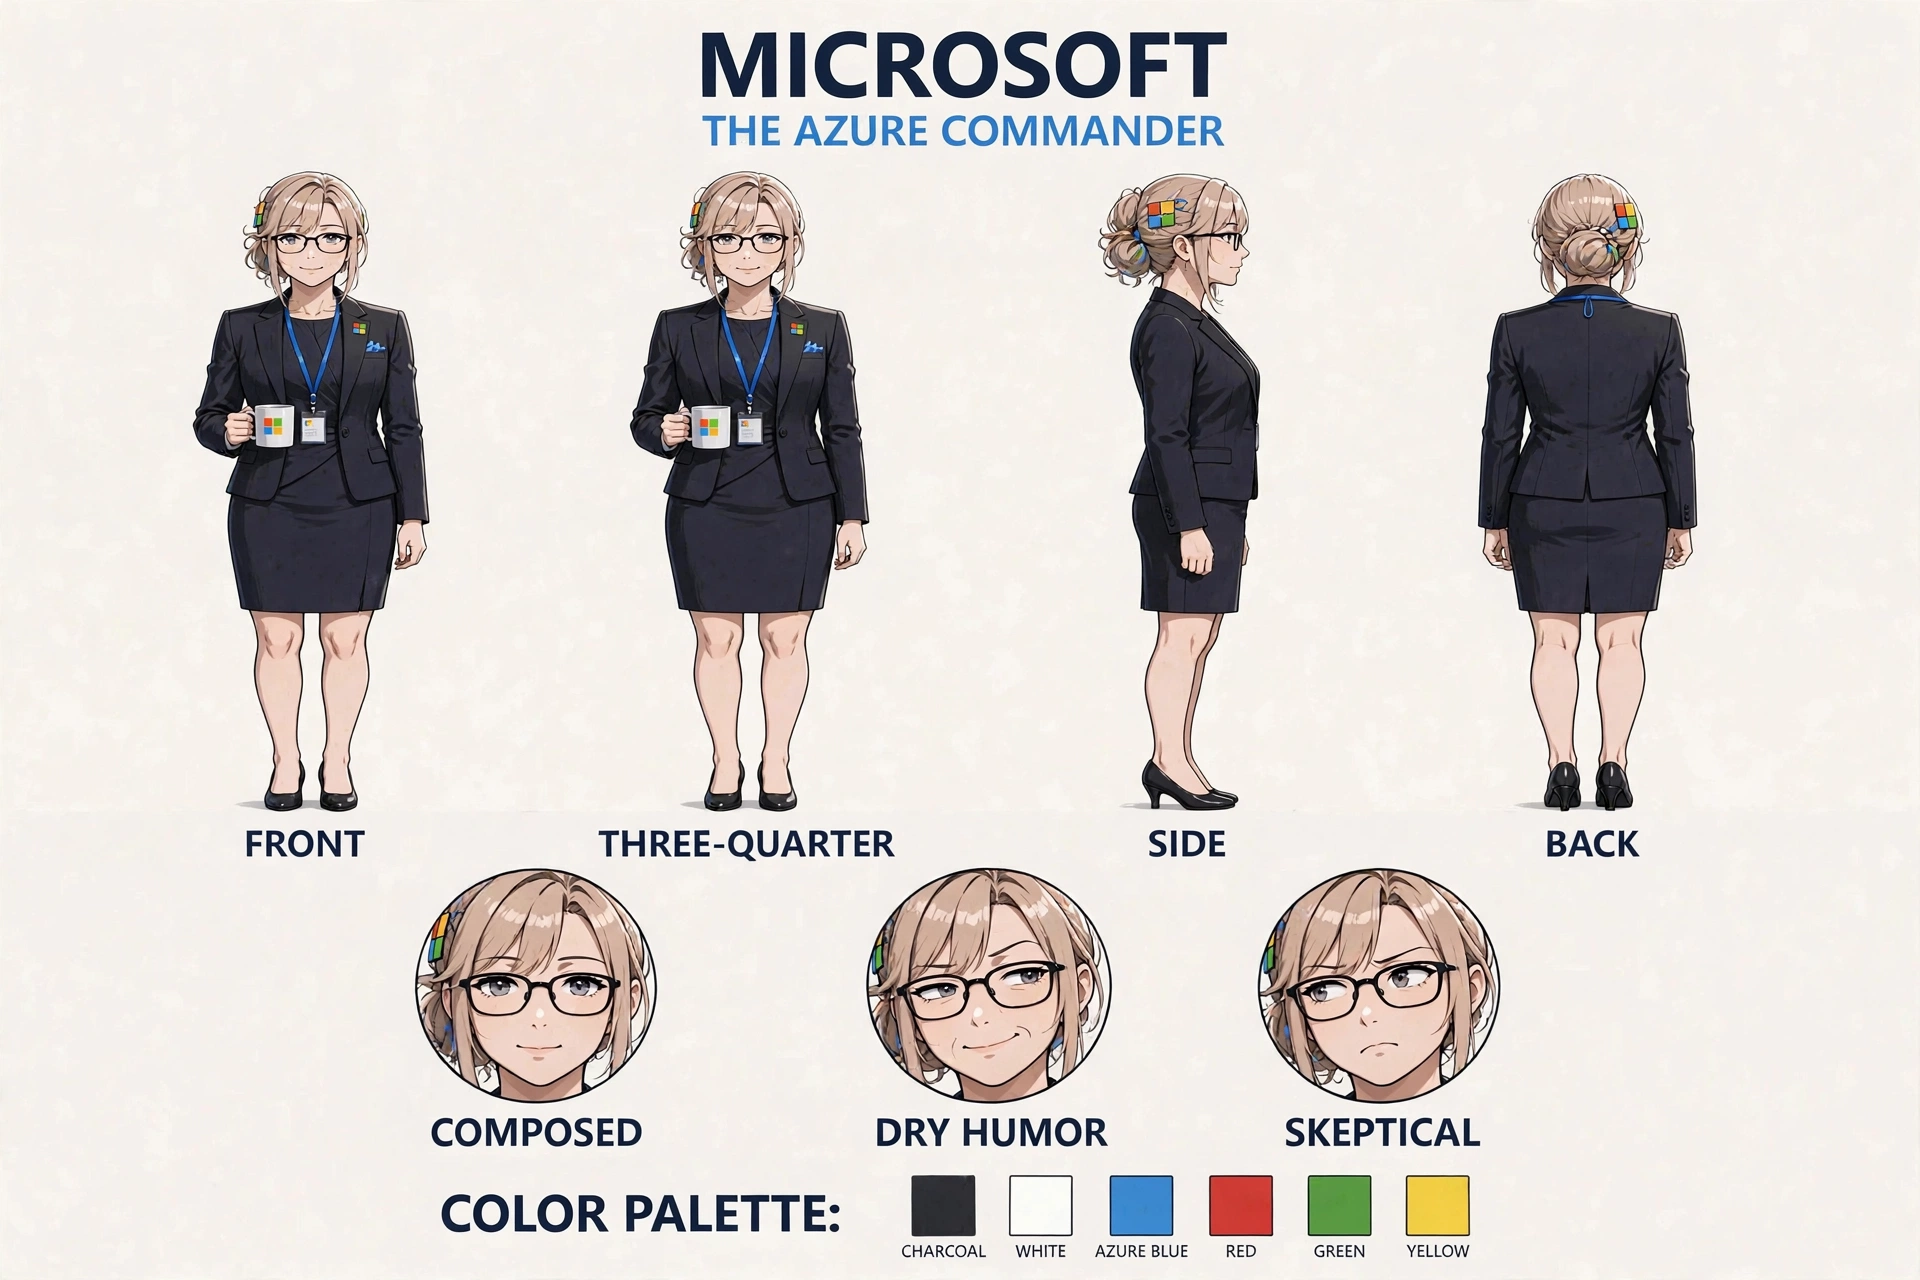
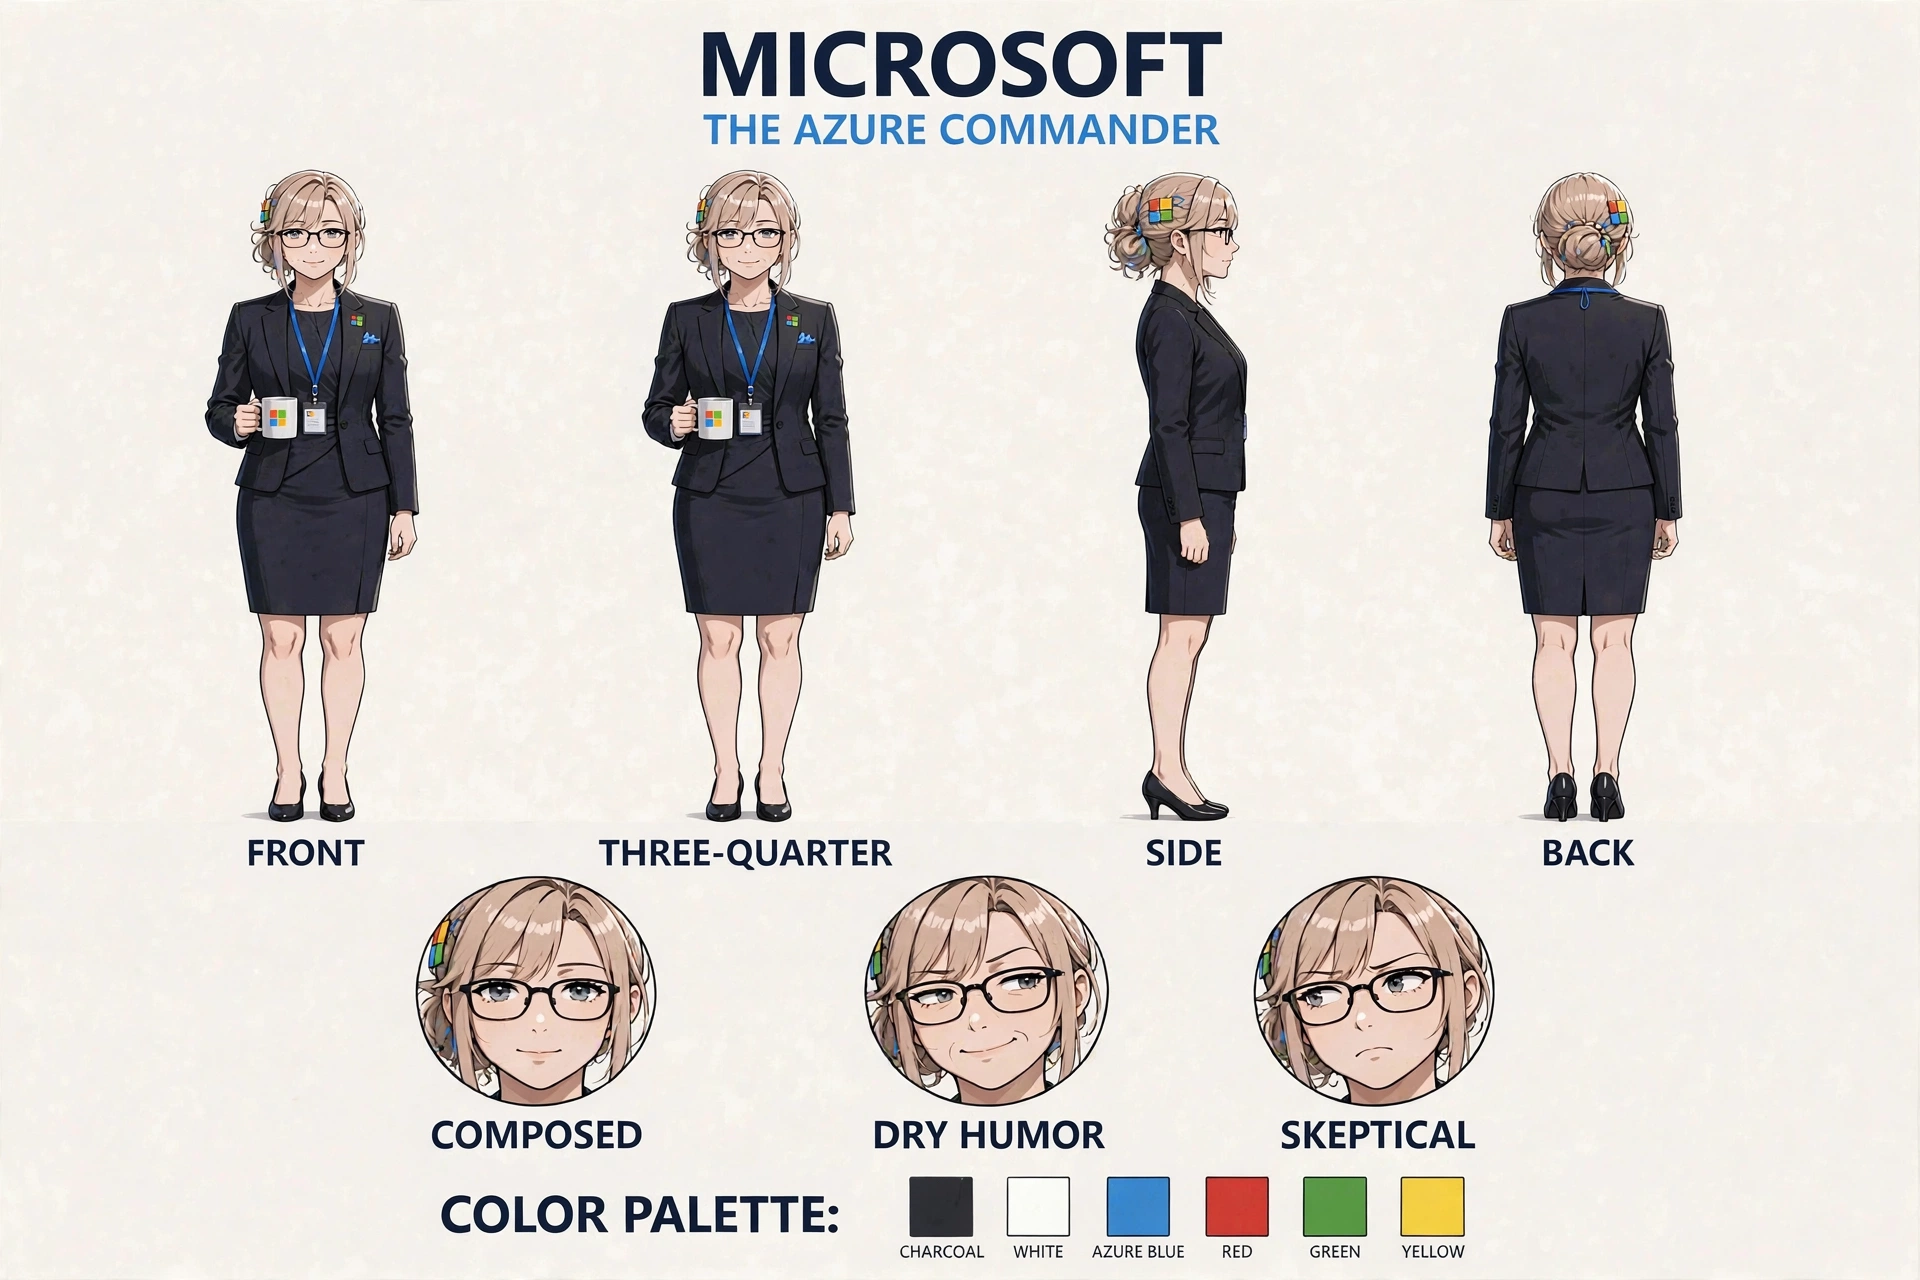
Fix Microsoft model sheet proportions
Horace flagged that the reframed dress sheet's figures read short and stocky next to the original sheet. A proportion-correction pass, with the original (trousers) model sheet supplied as the proportion reference, redrew the four turnarounds tall and slender (~7.5 head-heights, longer legs) while keeping the business dress, lanyard/mug in the front views, clean back view, expression circles, labels, and COLOR PALETTE strip unchanged.

diff --git a/characters/microsoft/character_sheet.prompt.md b/characters/microsoft/character_sheet.prompt.md
@@ -35,4 +35,4 @@ Distinguish all 12 clearly. Neutral is relaxed with open eyes and a calm command
 
 ## Outfit change: business dress (2026-11-07)
 
-At Horace's direction ("Change Microsoft from wearing pants to wear business dress"), the reference card and expression sheet were redrawn with a tailored dark charcoal knee-length sheath business dress under the same fitted blazer; she wears a dress, never trousers. The dress reference card (1280 x 1920) was generated from the previous card with the outfit-change instruction; the dress expression sheet (1920 x 1280) was generated from the dress card plus Intel's layout sheet, then corrected once to add glasses to the ANGRY and SMUG cells — ANGRY took the glasses; SMUG still lacks them (11 of 12 cells wear glasses). The full model sheet in the dress initially could not be generated in one pass (three attempts) and an interim composite was built and discarded at Horace's direction. The sheet was finally completed the same day by splitting the request: a turnarounds-only generation (FRONT / THREE-QUARTER / SIDE / BACK in the dress, lanyard and mug in the front views, clean back view), then an extension pass adding the COMPOSED / DRY HUMOR / SKEPTICAL circles and COLOR PALETTE strip, then a reframing pass restoring the figures head-to-toe with pumps visible. The installed character_sheet.png is that completed dress model sheet, verified in full.
+At Horace's direction ("Change Microsoft from wearing pants to wear business dress"), the reference card and expression sheet were redrawn with a tailored dark charcoal knee-length sheath business dress under the same fitted blazer; she wears a dress, never trousers. The dress reference card (1280 x 1920) was generated from the previous card with the outfit-change instruction; the dress expression sheet (1920 x 1280) was generated from the dress card plus Intel's layout sheet, then corrected once to add glasses to the ANGRY and SMUG cells — ANGRY took the glasses; SMUG still lacks them (11 of 12 cells wear glasses). The full model sheet in the dress initially could not be generated in one pass (three attempts) and an interim composite was built and discarded at Horace's direction. The sheet was finally completed the same day by splitting the request: a turnarounds-only generation (FRONT / THREE-QUARTER / SIDE / BACK in the dress, lanyard and mug in the front views, clean back view), then an extension pass adding the COMPOSED / DRY HUMOR / SKEPTICAL circles and COLOR PALETTE strip, then a reframing pass restoring the figures head-to-toe with pumps visible. The installed character_sheet.png is that completed dress model sheet, verified in full. One further pass followed at Horace's direction: the reframed figures read short and stocky next to the original trousers sheet, so a proportion-correction pass (with the original sheet supplied as the proportion reference) redrew the four figures tall and slender at about seven and a half head-heights, keeping the dress costume, layout, expressions, and palette; the result is the installed sheet.
